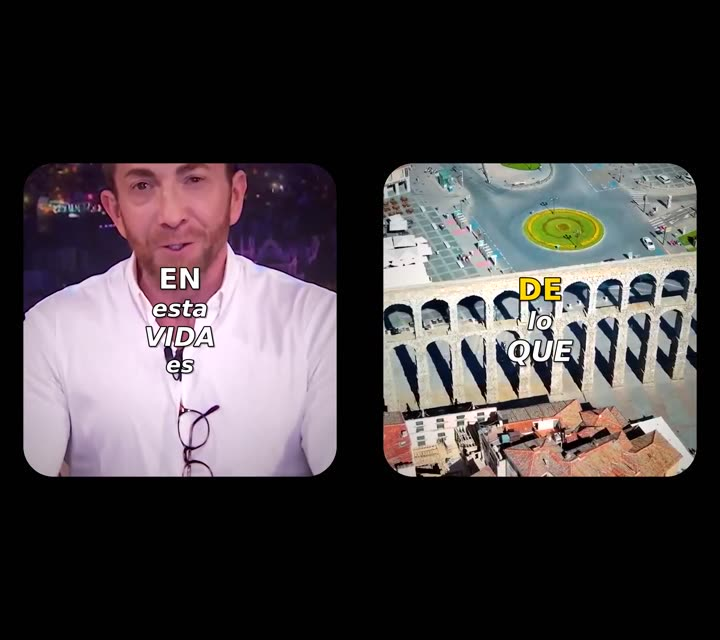
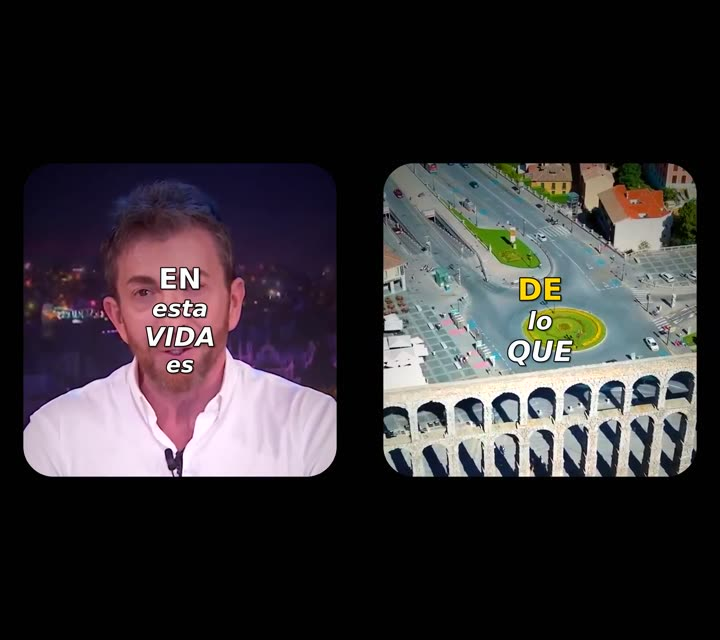
fix(viralizacion): el marco cuadrado cortaba la cabeza del ponente
El gancho no tiene holgura vertical —la fuente 16:9 se escala para cubrir
1080x1920 y encaja exacta de alto—, así que la cabeza queda a ~70px del
borde superior y el recorte cuadrado centrado (empezaba en y=420) la partía
por los ojos. Se sesga hacia arriba con SQUARE_CROP_Y_FRAC.

De paso, deploy_safe.sh decidía el rebuild de la API con una lista blanca de
módulos que no incluía viralizacion ni nicho_pov_bof: sus cambios se daban
por desplegados sin reconstruir nada.

diff --git a/scripts/viralizacion_previews.py b/scripts/viralizacion_previews.py
@@ -20,6 +20,7 @@ Uso:
 """
 from __future__ import annotations
 
+import os
 import random
 import subprocess
 import sys
@@ -37,7 +38,10 @@ from src.viralizacion.pipeline.renderer import (  # noqa: E402
 )
 from src.viralizacion.services import clip_library  # noqa: E402
 
-PONENTE = "pablo"
+# Ponente de las muestras. Se puede cambiar con VIRALIZACION_PREVIEW_PONENTE
+# para revisar el encuadre de otro (el recorte cuadrado depende de dónde
+# caiga su cara).
+PONENTE = os.environ.get("VIRALIZACION_PREVIEW_PONENTE", "pablo")
 OUT_DIR = REPO / "frontend" / "public" / "viralizacion" / "previews"
 WORK = Path("/var/tmp/viralizacion_previews")
 

diff --git a/src/viralizacion/config.py b/src/viralizacion/config.py
@@ -359,6 +359,13 @@ EQ_JITTER_FRAC = 0.05
 # abajo la última línea cae justo dentro.
 HIGHLIGHT_MARGIN_V = 600
 
+# Dónde cae el recorte cuadrado dentro del alto disponible: 0.5 = centrado
+# (lo que había), 0.0 = pegado arriba. El gancho no tiene holgura vertical
+# —la fuente 16:9 se escala para cubrir 1080x1920 y encaja EXACTA de alto—,
+# así que la cabeza del ponente queda a ~70px del borde superior y un
+# recorte centrado (empezaba en y=420) la cortaba por los ojos.
+SQUARE_CROP_Y_FRAC = 0.08
+
 SQUARE_SIDE = 940
 SQUARE_RADIUS = 90
 

diff --git a/src/viralizacion/pipeline/renderer.py b/src/viralizacion/pipeline/renderer.py
@@ -615,7 +615,8 @@ def _finalize(
         filters.append(
             f"[0:v]{eq_filter},{vignette_filter},{noise_filter},{pre}"
             f"scale={side}:{side}:force_original_aspect_ratio=increase,"
-            f"crop={side}:{side}[sq]"
+            f"crop={side}:{side}:(in_w-{side})/2:"
+            f"(in_h-{side})*{config.SQUARE_CROP_Y_FRAC}[sq]"
         )
         filters.append(f"[{mask_idx}:v]format=gray[mk]")
         filters.append("[sq][mk]alphamerge[sqa]")

diff --git a/learnings.md b/learnings.md
@@ -294,3 +294,5 @@
 - Viralización estilo H: libass resuelve la fuente por NOMBRE DE FAMILIA (`Montserrat ExtraBold`), no por nombre de fichero, y hay que apuntarle `fontsdir` a `assets/fonts` — de ahí `StylePreset.font_name`/`fonts_dir`. El amarillo de resalte va en BGR (`&H00E9FF&`), que ASS invierte respecto a RGB.
 - `deploy_safe.sh` leía la cola en `${APP_DIR}/temp_work/queue_state.json` (bind del host) pero la API la escribe en el volumen docker `api_temp` → `/app/temp_work`. El guardarraíl leía un fichero de meses atrás y decía "sin jobs running" con un lote al 43%. Ahora cuenta con `docker exec tiktok-api`.
 - `.gitignore` tiene `*.jpg`/`*.png` globales: cualquier asset de UI nuevo (p. ej. las miniaturas de estilos en `frontend/public/`) se queda fuera del commit SIN aviso y el build de Docker lo sirve como 404. Hace falta una excepción `!ruta/*.jpg`.
+- El gancho NO tiene holgura vertical (la fuente 16:9 se escala para cubrir 1080x1920 y encaja exacta de alto), así que la cabeza del ponente queda a ~70px del borde; el recorte cuadrado centrado empezaba en y=420 y la cortaba por los ojos. Se sesga con `SQUARE_CROP_Y_FRAC` (0.08 en vez de 0.5).
+- `deploy_safe.sh` decidía rebuild de la API con una lista blanca de módulos de `src/` que NO incluía `viralizacion` ni `nicho_pov_bof`: sus cambios se pusheaban y el autodeploy los daba por desplegados sin reconstruir. Ahora dispara con cualquier cambio bajo `src/`, `assets/` o `prompts/`.
